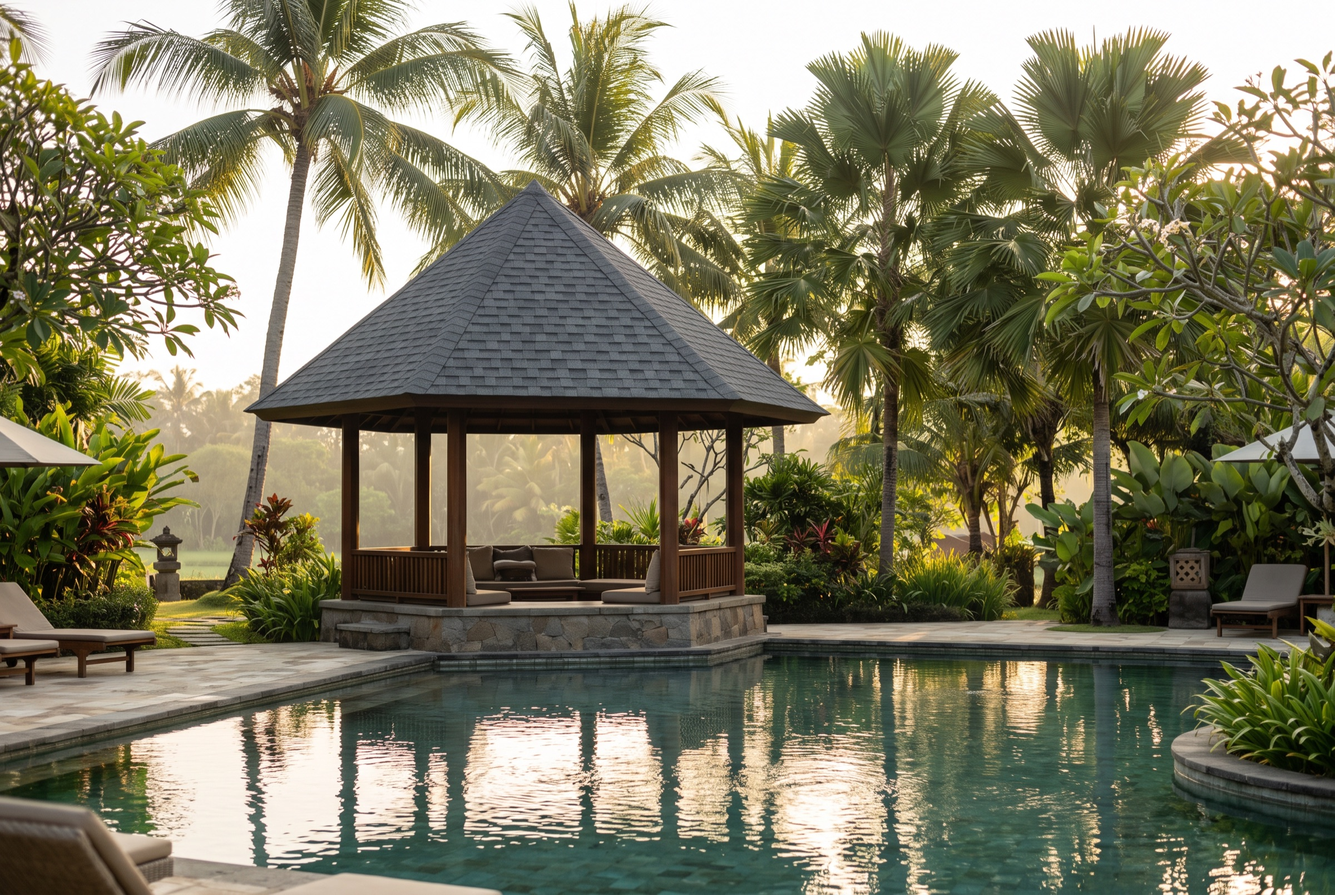
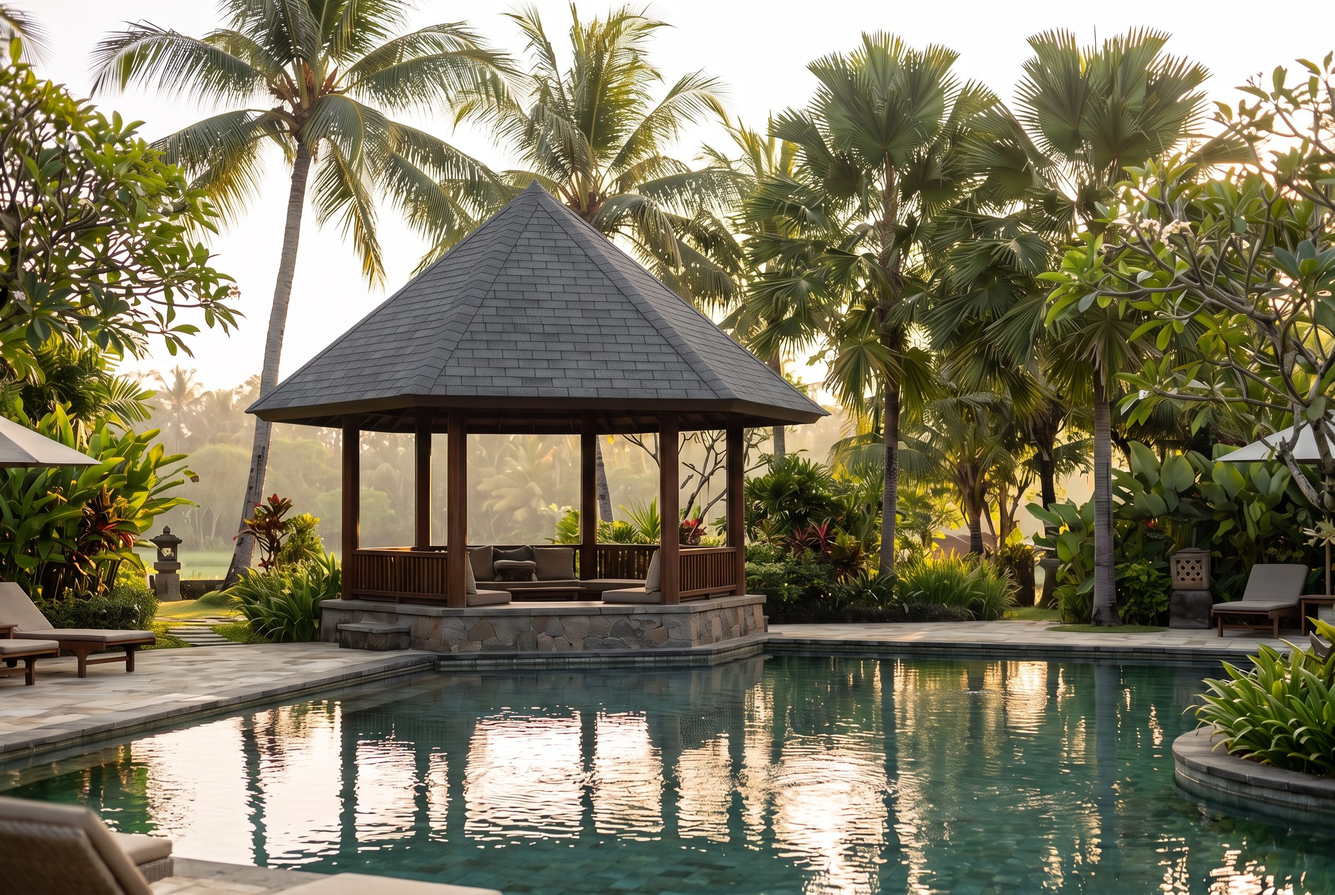
feat(produk): foto seri, contoh warna foto, penerapan beratap rectangular — permintaan Rama
Diagram SVG bentuk potongan diganti 9 foto close-up (Magnific) yang bentuknya dicocokkan ke
katalog resmi; CT5 sekarang tampil sebagai lidah persegi acak bercelah, sesuai aslinya.
Contoh warna (60) dibuat dari foto seri yang diwarnai ulang per hex, jadi teksturnya foto
tanpa biaya generate per warna. Enam ilustrasi penerapan diedit jadi atap rectangular/3-tab.
Lihat DECISIONS 042 dan magnific-log (890 kredit).

diff --git a/src/data/produk.ts b/src/data/produk.ts
@@ -6,17 +6,19 @@ import type { ImageMetadata } from 'astro';
 import { harga, type Merek } from './harga';
 import cti1 from '../../assets/gambar/magnific/penerapan-cti-ct3-gazebo-3x2.jpg';
 import maxxi1 from '../../assets/gambar/magnific/penerapan-maxxi-promaxxi-rumah-3x2.jpg';
-import cti2 from '../../assets/gambar/magnific/penerapan-cti-ct6-kafe-3x2.jpg';
+import cti2 from '../../assets/gambar/magnific/penerapan-cti-ct3-kafe-3x2.jpg';
 import maxxi2 from '../../assets/gambar/magnific/penerapan-maxxi-maxxiroof-rumah-3x2.jpg';
-import tegola1 from '../../assets/gambar/magnific/penerapan-tegola-traditional-villa-3x2.jpg';
-import tegola2 from '../../assets/gambar/magnific/penerapan-tegola-master-lereng-3x2.jpg';
+import tegola1 from '../../assets/gambar/magnific/penerapan-tegola-rectangular-villa-3x2.jpg';
+import tegola2 from '../../assets/gambar/magnific/penerapan-tegola-rectangular-lereng-3x2.jpg';
 
-/** Bentuk potongan lembar, untuk gambar SVG di halaman seri. */
-export type Bentuk = 'tab3' | 'zigzag' | 'heksagonal' | 'laminasi' | 'persegi' | 'sisik' | 'mosaik';
+// Foto close-up tiap seri (Magnific, bentuk potongan dicocokkan ke katalog resmi). Nama file = kunci `foto`.
+const fotoSeri = import.meta.glob<ImageMetadata>('../../assets/gambar/seri/*.jpg', { eager: true, import: 'default' });
+const seriFoto = (kunci: string) => fotoSeri[`../../assets/gambar/seri/${kunci}.jpg`];
 
 export interface Seri {
   nama: string;
-  bentuk: Bentuk;
+  /** Foto close-up genteng terpasang (ilustrasi Magnific). */
+  foto: ImageMetadata;
   ringkas: string;
   spek: { label: string; nilai: string }[];
 }
@@ -41,7 +43,8 @@ export interface Produk {
   fakta: { label: string; nilai: string }[];
   seri: Seri[];
   /** Warna per kelompok (mis. per seri). Kosong = menunggu data resmi. */
-  warna: { judul: string; catatan?: string; daftar: Warna[] }[];
+  /** `tekstur` = kunci foto seri yang diwarnai ulang jadi contoh warna (assets/gambar/warna/<tekstur>-<nama>.jpg). */
+  warna: { tekstur: string; judul: string; catatan?: string; daftar: Warna[] }[];
   aksesori: { nama: string; isi: string }[];
   /** Ilustrasi penerapan (Magnific), selalu berlabel ilustrasi, bukan proyek Atapura. */
   penerapan: { gambar: ImageMetadata; alt: string; keterangan: string }[];
@@ -77,7 +80,7 @@ export const produk: Produk[] = [
     seri: [
       {
         nama: 'CT3',
-        bentuk: 'tab3',
+        foto: seriFoto('cti-ct3'),
         ringkas: 'Model 3-tab, tiga lidah rata. Tampilan paling rapi dan paling umum dipakai di rumah tinggal.',
         spek: [
           { label: 'Ukuran per lembar', nilai: '1.000 × 333 mm' },
@@ -87,7 +90,7 @@ export const produk: Produk[] = [
       },
       {
         nama: 'CT5',
-        bentuk: 'zigzag',
+        foto: seriFoto('cti-ct5'),
         ringkas: 'Potongan tidak beraturan yang membuat atap tampak berlapis dan bertekstur setelah terpasang.',
         spek: [
           { label: 'Ukuran per lembar', nilai: '1.000 × 317,5 mm' },
@@ -97,7 +100,7 @@ export const produk: Produk[] = [
       },
       {
         nama: 'CT6',
-        bentuk: 'heksagonal',
+        foto: seriFoto('cti-ct6'),
         ringkas: 'Potongan segi enam untuk atap yang ingin tampil beda, sering dipilih untuk bangunan berarsitektur khusus.',
         spek: [
           { label: 'Ukuran per lembar', nilai: '1.000 × 317,5 mm' },
@@ -107,9 +110,9 @@ export const produk: Produk[] = [
       },
     ],
     warna: [
-      { judul: 'CT3 · warna solid', daftar: [{ nama: 'Black', kode: 'BK', hex: '#1E1F21' }, { nama: 'Dark Grey', kode: 'DG', hex: '#6B6D70' }, { nama: 'Dark Brown', kode: 'DB', hex: '#2E2A2B' }, { nama: 'Red', kode: 'RD', hex: '#9B2F2E' }, { nama: 'Green', kode: 'GN', hex: '#2F5A3C' }, { nama: 'Gold', kode: 'GD', hex: '#9C7347' }] },
-      { judul: 'CT3 · warna gradasi', daftar: [{ nama: 'Midnight Black', kode: 'MIB', hex: '#2A2B2D' }, { nama: 'Charcoal Grey', kode: 'CHG', hex: '#45474A' }, { nama: 'Coffee Brown', kode: 'COB', hex: '#5A5552' }, { nama: 'Sunset Red', kode: 'SUR', hex: '#8E3A3E' }, { nama: 'Forest Green', kode: 'FOG', hex: '#2F4A33' }, { nama: 'Tuscany Gold', kode: 'TUG', hex: '#6E5A45' }] },
-      { judul: 'CT5 dan CT6', catatan: 'Warna khusus (custom) bisa dipesan; tanyakan ketersediaannya lewat WhatsApp.', daftar: [{ nama: 'Black', kode: 'BK', hex: '#1E1F21' }, { nama: 'Dark Grey', kode: 'DG', hex: '#6B6D70' }, { nama: 'Dark Brown', kode: 'DB', hex: '#2E2A2B' }, { nama: 'Red', kode: 'RD', hex: '#9B2F2E' }, { nama: 'Green', kode: 'GN', hex: '#2F5A3C' }, { nama: 'Gold', kode: 'GD', hex: '#9C7347' }] },
+      { tekstur: 'cti-ct3', judul: 'CT3 · warna solid', daftar: [{ nama: 'Black', kode: 'BK', hex: '#1E1F21' }, { nama: 'Dark Grey', kode: 'DG', hex: '#6B6D70' }, { nama: 'Dark Brown', kode: 'DB', hex: '#2E2A2B' }, { nama: 'Red', kode: 'RD', hex: '#9B2F2E' }, { nama: 'Green', kode: 'GN', hex: '#2F5A3C' }, { nama: 'Gold', kode: 'GD', hex: '#9C7347' }] },
+      { tekstur: 'cti-ct3', judul: 'CT3 · warna gradasi', daftar: [{ nama: 'Midnight Black', kode: 'MIB', hex: '#2A2B2D' }, { nama: 'Charcoal Grey', kode: 'CHG', hex: '#45474A' }, { nama: 'Coffee Brown', kode: 'COB', hex: '#5A5552' }, { nama: 'Sunset Red', kode: 'SUR', hex: '#8E3A3E' }, { nama: 'Forest Green', kode: 'FOG', hex: '#2F4A33' }, { nama: 'Tuscany Gold', kode: 'TUG', hex: '#6E5A45' }] },
+      { tekstur: 'cti-ct6', judul: 'CT5 dan CT6', catatan: 'Warna khusus (custom) bisa dipesan; tanyakan ketersediaannya lewat WhatsApp.', daftar: [{ nama: 'Black', kode: 'BK', hex: '#1E1F21' }, { nama: 'Dark Grey', kode: 'DG', hex: '#6B6D70' }, { nama: 'Dark Brown', kode: 'DB', hex: '#2E2A2B' }, { nama: 'Red', kode: 'RD', hex: '#9B2F2E' }, { nama: 'Green', kode: 'GN', hex: '#2F5A3C' }, { nama: 'Gold', kode: 'GD', hex: '#9C7347' }] },
     ],
     aksesori: [
       { nama: 'UnderMaster', isi: 'Lapisan bawah (underlayer) gulungan 1 × 10 m yang dipasang di atas papan alas, sebelum genteng.' },
@@ -117,7 +120,7 @@ export const produk: Produk[] = [
     ],
     penerapan: [
       { gambar: cti1, alt: 'Ilustrasi gazebo resort tepi kolam beratap limas genteng aspal 3-tab abu tua', keterangan: 'Potongan 3-tab, abu tua, pada gazebo resort' },
-      { gambar: cti2, alt: 'Ilustrasi kafe modern beratap pelana curam genteng aspal berpotongan segi enam', keterangan: 'Potongan segi enam pada kafe beratap pelana curam' },
+      { gambar: cti2, alt: 'Ilustrasi kafe modern beratap pelana curam genteng aspal 3-tab abu tua', keterangan: 'Potongan 3-tab, abu tua, pada kafe beratap pelana curam' },
     ],
     garansi: 'Garansi produk 30 tahun dari pabrik CTI. Garansi pemasangan dari pabrik berlaku untuk pemasangan oleh CTI; pemasangan Atapura dilindungi garansi pemasangan tertulis 5 tahun dari Atapura.',
     terverifikasi: true,
@@ -146,7 +149,7 @@ export const produk: Produk[] = [
     seri: [
       {
         nama: 'Maxxiroof',
-        bentuk: 'tab3',
+        foto: seriFoto('maxxi-maxxiroof'),
         ringkas: 'Genteng aspal 3-tab satu lapis. Pilihan paling hemat untuk rumah tinggal dan renovasi.',
         spek: [
           { label: 'Ukuran per lembar', nilai: '1.000 × 333 mm' },
@@ -157,7 +160,7 @@ export const produk: Produk[] = [
       },
       {
         nama: 'Promaxxi',
-        bentuk: 'laminasi',
+        foto: seriFoto('maxxi-promaxxi'),
         ringkas: 'Genteng aspal laminasi dua lapis. Lebih tebal, bayangannya lebih dalam, dan tercantum tahan angin 130 km/jam.',
         spek: [
           { label: 'Ukuran per lembar', nilai: '1.000 × 333 mm' },
@@ -169,12 +172,12 @@ export const produk: Produk[] = [
       },
     ],
     warna: [
-      { judul: 'Maxxiroof', daftar: [{ nama: 'Slate', hex: '#8A8F8A' }, { nama: 'Cedar', hex: '#C9A574' }, { nama: 'Ash Brown', hex: '#9A5A43' }, { nama: 'Sierra Gray 1 Tone', hex: '#8C8F8D' }, { nama: 'Sierra Gray 2 Tone', hex: '#8E928E' }, { nama: 'Bark Brown', hex: '#4E3330' }, { nama: 'Dark Black', hex: '#2B2928' }, { nama: 'Charcoal', hex: '#3A3836' }, { nama: 'Dark Brown', hex: '#4A3A36' }] },
-      { judul: 'Promaxxi', catatan: 'Warna Promaxxi lain bisa ditanyakan lewat WhatsApp.', daftar: [{ nama: 'Charcoal', hex: '#4A4A48' }, { nama: 'Mix Spanish Red', hex: '#B0574A' }, { nama: 'Lime Gray', hex: '#9DA3AA' }] },
+      { tekstur: 'maxxi-maxxiroof', judul: 'Maxxiroof', daftar: [{ nama: 'Slate', hex: '#8A8F8A' }, { nama: 'Cedar', hex: '#C9A574' }, { nama: 'Ash Brown', hex: '#9A5A43' }, { nama: 'Sierra Gray 1 Tone', hex: '#8C8F8D' }, { nama: 'Sierra Gray 2 Tone', hex: '#8E928E' }, { nama: 'Bark Brown', hex: '#4E3330' }, { nama: 'Dark Black', hex: '#2B2928' }, { nama: 'Charcoal', hex: '#3A3836' }, { nama: 'Dark Brown', hex: '#4A3A36' }] },
+      { tekstur: 'maxxi-promaxxi', judul: 'Promaxxi', catatan: 'Warna Promaxxi lain bisa ditanyakan lewat WhatsApp.', daftar: [{ nama: 'Charcoal', hex: '#4A4A48' }, { nama: 'Mix Spanish Red', hex: '#B0574A' }, { nama: 'Lime Gray', hex: '#9DA3AA' }] },
     ],
     aksesori: [],
     penerapan: [
-      { gambar: maxxi2, alt: 'Ilustrasi rumah satu lantai di perumahan beratap pelana genteng aspal 3-tab hitam', keterangan: 'Potongan 3-tab hitam pada rumah satu lantai di perumahan' },
+      { gambar: maxxi2, alt: 'Ilustrasi rumah satu lantai di perumahan beratap pelana genteng aspal 3-tab abu', keterangan: 'Potongan 3-tab abu pada rumah satu lantai di perumahan' },
       { gambar: maxxi1, alt: 'Ilustrasi rumah dua lantai beratap limas genteng aspal laminasi coklat tua', keterangan: 'Genteng laminasi coklat tua pada rumah dua lantai' },
     ],
     garansi: 'Garansi produk dari pabrik: 25 tahun untuk Maxxiroof dan 30 tahun untuk Promaxxi, dengan syarat sesuai dokumen garansi pabrik. Pemasangan Atapura dilindungi garansi pemasangan tertulis 5 tahun.',
@@ -203,7 +206,7 @@ export const produk: Produk[] = [
     seri: [
       {
         nama: 'Premium Rectangular',
-        bentuk: 'persegi',
+        foto: seriFoto('tegola-premium-rectangular'),
         ringkas: 'Satu lapis dengan potongan persegi, tampilan rapi mirip 3-tab.',
         spek: [
           { label: 'Ukuran per lembar', nilai: '1.000 × 340 mm' },
@@ -213,7 +216,7 @@ export const produk: Produk[] = [
       },
       {
         nama: 'Premium Traditional',
-        bentuk: 'sisik',
+        foto: seriFoto('tegola-premium-traditional'),
         ringkas: 'Satu lapis dengan potongan membulat seperti sisik, untuk rumah bergaya klasik.',
         spek: [
           { label: 'Ukuran per lembar', nilai: '1.000 × 340 mm' },
@@ -222,7 +225,7 @@ export const produk: Produk[] = [
       },
       {
         nama: 'Premium Mosaik',
-        bentuk: 'mosaik',
+        foto: seriFoto('tegola-premium-mosaik'),
         ringkas: 'Satu lapis dengan potongan mosaik yang memberi pola acak di bidang atap.',
         spek: [
           { label: 'Ukuran per lembar', nilai: '1.000 × 337 mm' },
@@ -231,7 +234,7 @@ export const produk: Produk[] = [
       },
       {
         nama: 'Master',
-        bentuk: 'laminasi',
+        foto: seriFoto('tegola-master'),
         ringkas: 'Dua lapis, lebih berat dan bertekstur dalam. Pemasangan dengan paku biasa mulai kemiringan 19°.',
         spek: [
           { label: 'Ukuran per lembar', nilai: '998 × 337 mm' },
@@ -241,14 +244,14 @@ export const produk: Produk[] = [
       },
     ],
     warna: [
-      { judul: 'Premium Rectangular', catatan: 'Warna seri Tegola lain (Traditional, Mosaik, Master) bisa ditanyakan lewat WhatsApp.', daftar: [{ nama: 'Black', kode: '060', hex: '#2B2C2E' }, { nama: 'Slate Grey', kode: '061', hex: '#6A6E73' }, { nama: 'Light Grey', kode: '053', hex: '#A3A5A6' }, { nama: 'Dark Grey', kode: '550', hex: '#8A8A8C' }, { nama: 'Tone Green', kode: '070', hex: '#5A7A55' }, { nama: 'Coppery Red', kode: '503', hex: '#8E3B33' }, { nama: 'Tone Red', kode: '002', hex: '#8A3E35' }, { nama: 'Autumn Red', kode: '506', hex: '#8E5040' }, { nama: 'Dark Brown', kode: '521', hex: '#4A3530' }, { nama: 'Wood', kode: '547', hex: '#5A3E36' }] },
+      { tekstur: 'tegola-premium-rectangular', judul: 'Premium Rectangular', catatan: 'Warna seri Tegola lain (Traditional, Mosaik, Master) bisa ditanyakan lewat WhatsApp.', daftar: [{ nama: 'Black', kode: '060', hex: '#2B2C2E' }, { nama: 'Slate Grey', kode: '061', hex: '#6A6E73' }, { nama: 'Light Grey', kode: '053', hex: '#A3A5A6' }, { nama: 'Dark Grey', kode: '550', hex: '#8A8A8C' }, { nama: 'Tone Green', kode: '070', hex: '#5A7A55' }, { nama: 'Coppery Red', kode: '503', hex: '#8E3B33' }, { nama: 'Tone Red', kode: '002', hex: '#8A3E35' }, { nama: 'Autumn Red', kode: '506', hex: '#8E5040' }, { nama: 'Dark Brown', kode: '521', hex: '#4A3530' }, { nama: 'Wood', kode: '547', hex: '#5A3E36' }] },
     ],
     aksesori: [
       { nama: 'Startbar', isi: 'Membran lapisan bawah yang diwajibkan pabrik untuk pemasangan dengan paku pada kemiringan 14° ke atas.' },
     ],
     penerapan: [
-      { gambar: tegola1, alt: 'Ilustrasi villa klasik beratap limas genteng aspal potongan sisik merah antik', keterangan: 'Potongan sisik, merah antik, pada villa bertaman' },
-      { gambar: tegola2, alt: 'Ilustrasi villa di lereng berkabut beratap genteng aspal dua lapis abu batu', keterangan: 'Genteng dua lapis abu batu pada villa dataran tinggi' },
+      { gambar: tegola1, alt: 'Ilustrasi villa klasik beratap limas genteng aspal potongan persegi merah tua', keterangan: 'Potongan persegi (Rectangular), merah tua, pada villa bertaman' },
+      { gambar: tegola2, alt: 'Ilustrasi villa di lereng berkabut beratap genteng aspal potongan persegi abu tua', keterangan: 'Potongan persegi (Rectangular), abu tua, pada villa dataran tinggi' },
     ],
     garansi: 'Garansi terbatas terdaftar hingga 40 tahun dari pabrik, berlaku bertahap: 5–10 tahun pertama penggantian lembar cacat dan bantuan biaya pasang, setelahnya potongan harga material baru. Syaratnya pemasangan sesuai manual pabrik dan aksesori asli. Pemasangan Atapura dilindungi garansi pemasangan tertulis 5 tahun.',
     terverifikasi: true,
@@ -275,8 +278,8 @@ export const produk: Produk[] = [
     ],
     seri: [],
     warna: [
-      { judul: 'Warna solid', daftar: [{ nama: 'Hitam', hex: '#2E3136' }, { nama: 'Abu-abu gelap', hex: '#4A5058' }, { nama: 'Abu-abu', hex: '#6E7275' }, { nama: 'Abu-abu terang', hex: '#8C9196' }, { nama: 'Biru', hex: '#3E5378' }, { nama: 'Biru terang', hex: '#4A7BC4' }, { nama: 'Hijau', hex: '#4E6450' }, { nama: 'Hijau muda', hex: '#5E8A63' }, { nama: 'Coklat', hex: '#5E5148' }, { nama: 'Coklat gelap', hex: '#5A4A3C' }, { nama: 'Coklat terang', hex: '#B5765B' }, { nama: 'Coklat emas', hex: '#B59A72' }, { nama: 'Merah', hex: '#A9584A' }, { nama: 'Merah gelap', hex: '#8A5550' }, { nama: 'Merah terang', hex: '#C9614E' }] },
-      { judul: 'Seri gradasi', catatan: 'Nama warna gradasi dikonfirmasi ulang ke pemasok saat survey.', daftar: [{ nama: 'Gradasi abu-abu', hex: '#55585C' }, { nama: 'Gradasi coklat', hex: '#6E4038' }, { nama: 'Gradasi hijau tua', hex: '#3E4E44' }, { nama: 'Gradasi hitam', hex: '#3A3F45' }, { nama: 'Gradasi merah', hex: '#9E4A3C' }] },
+      { tekstur: 'cti-ct3', judul: 'Warna solid', daftar: [{ nama: 'Hitam', hex: '#2E3136' }, { nama: 'Abu-abu gelap', hex: '#4A5058' }, { nama: 'Abu-abu', hex: '#6E7275' }, { nama: 'Abu-abu terang', hex: '#8C9196' }, { nama: 'Biru', hex: '#3E5378' }, { nama: 'Biru terang', hex: '#4A7BC4' }, { nama: 'Hijau', hex: '#4E6450' }, { nama: 'Hijau muda', hex: '#5E8A63' }, { nama: 'Coklat', hex: '#5E5148' }, { nama: 'Coklat gelap', hex: '#5A4A3C' }, { nama: 'Coklat terang', hex: '#B5765B' }, { nama: 'Coklat emas', hex: '#B59A72' }, { nama: 'Merah', hex: '#A9584A' }, { nama: 'Merah gelap', hex: '#8A5550' }, { nama: 'Merah terang', hex: '#C9614E' }] },
+      { tekstur: 'cti-ct3', judul: 'Seri gradasi', catatan: 'Nama warna gradasi dikonfirmasi ulang ke pemasok saat survey.', daftar: [{ nama: 'Gradasi abu-abu', hex: '#55585C' }, { nama: 'Gradasi coklat', hex: '#6E4038' }, { nama: 'Gradasi hijau tua', hex: '#3E4E44' }, { nama: 'Gradasi hitam', hex: '#3A3F45' }, { nama: 'Gradasi merah', hex: '#9E4A3C' }] },
     ],
     aksesori: [],
     penerapan: [],

diff --git a/docs/DECISIONS.md b/docs/DECISIONS.md
@@ -131,3 +131,9 @@ Permintaan Rama (acuan struktur: situs katalog atap pesaing yang tidak disebut d
 
 ## 041 · 4 November 2026 · Warna merek hanya dari daftar resmi; ilustrasi penerapan pertama
 Riset `docs/riset/produk-per-merek.md`. Halaman merek menampilkan warna yang ada di daftar resmi pabrik/distributor saja (CTI CT3 6 solid + 6 gradasi, CT5/CT6 6; Maxxiroof 9, Promaxxi 3; Tegola Premium Rectangular 10 dengan kode pabrik; Javabitumen 15 solid + 5 gradasi dari situs distributor). Warna yang hanya ada di katalog pihak ketiga (mis. CTI SG, BR, BU, URG, CBB, PEG) tidak ditampilkan sampai stoknya dikonfirmasi. Hex adalah perkiraan layar, ditandai di halaman dengan ajakan cek sampel fisik. Ukuran resmi CT5 = 1.000 × 317,5 mm, 22 lembar. Ilustrasi penerapan Magnific: 4 dipakai (CT3, Promaxxi, Tegola Traditional, Tegola Master), 2 ditolak (lihat `docs/magnific-log.md`).
+
+## 042 · 5 November 2026 · Foto seri, contoh warna foto, dan penerapan beratap rectangular
+Permintaan Rama: diagram SVG bentuk potongan diganti foto yang terlihat asli, contoh warna juga harus real, dan semua ilustrasi penerapan memakai atap rectangular.
+- Foto seri: 9 close-up genteng terpasang dibuat di Magnific (Nano Banana 2.1, 1K) dengan potongan katalog resmi sebagai acuan bentuk (CT3, CT5, CT6, Maxxiroof, Promaxxi, Tegola Rectangular). File di `assets/gambar/seri/<merek>-<seri>.jpg`; komponen `BentukGenteng` dihapus. CT5 ternyata bukan zigzag melainkan lidah persegi acak dengan celah bayangan; fotonya sekarang mengikuti katalog.
+- Contoh warna: foto seri diubah ke luminans lalu diwarnai ulang sesuai hex tiap warna (variasi bercak lebih kuat untuk warna gradasi/2 tone), satu foto per warna di `assets/gambar/warna/<tekstur>-<nama>.jpg`. Kunci `tekstur` per kelompok warna di `produk.ts`. Alasannya: tekstur dan bentuk tetap foto, biaya 0 kredit, dibanding ±60 gambar × 50 kredit. Javabitumen memakai tekstur 3-tab karena contoh resminya 3-tab. Warna di layar tetap disebut perkiraan.
+- Penerapan: 6 ilustrasi diedit di Magnific dengan foto lama sebagai acuan (adegan sama, atap diganti potongan rectangular/3-tab; Promaxxi laminasi bertab persegi). Keterangan dan alt disesuaikan, label "bukan proyek Atapura" tetap.

diff --git a/docs/magnific-log.md b/docs/magnific-log.md
@@ -16,3 +16,8 @@ Total 4 Nov: 390 kredit. Saldo sebelum: 18.361.
 | 4 Nov 2026 | Ulang penerapan Maxxiroof | Nano Banana 2.1, 2K, 3:2 | 65 | ✅ `penerapan-maxxi-maxxiroof-rumah-3x2.jpg` | Prompt dipertegas: clean dry roof, uniform matte colour, no streaks/stains |
 
 Total 4 Nov: 520 kredit. Saldo setelahnya: ±17.841.
+
+| 5 Nov 2026 | Foto seri ×9 (CT3, CT5, CT6 ×2, Maxxiroof, Promaxxi, Tegola Rectangular/Traditional/Mosaik/Master) | Nano Banana 2.1, 1K, 16:9 | 10 × 50 | ✅ 9 dipakai di `assets/gambar/seri/`; CT6 pertama ❌ (celah trapesium hilang, diulang) | Close-up lurus, acuan potongan katalog |
+| 5 Nov 2026 | Edit penerapan ×6 jadi atap rectangular | Nano Banana 2.1, 2K, 3:2 | 6 × 65 | ✅ semua dipakai (gazebo, kafe, Maxxiroof, Promaxxi, villa Tegola, lereng Tegola) | Foto lama + potongan katalog sebagai acuan |
+
+Total 5 Nov: 890 kredit. Saldo setelahnya: ±16.951. Contoh warna (60) dibuat dari foto seri lewat skrip, 0 kredit.
